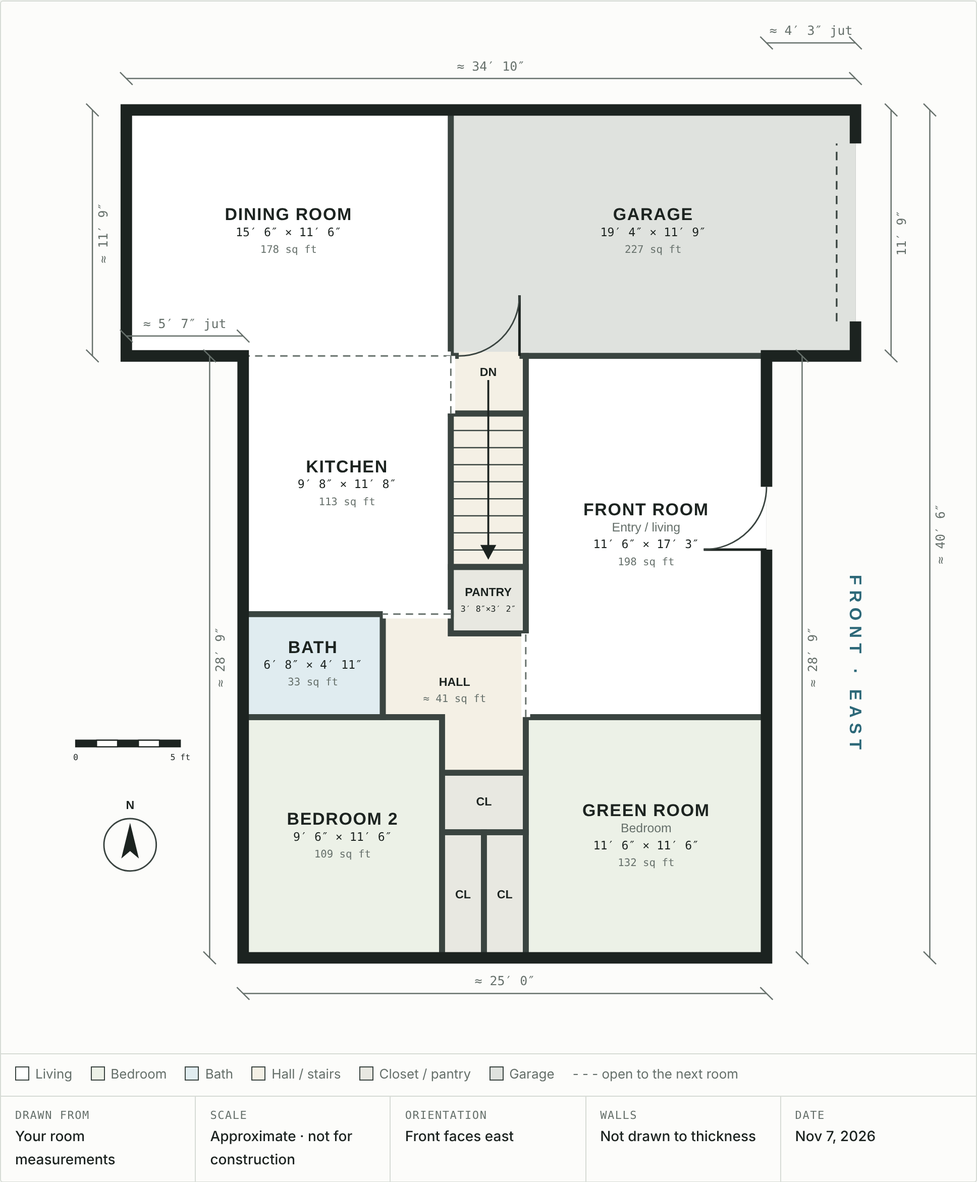
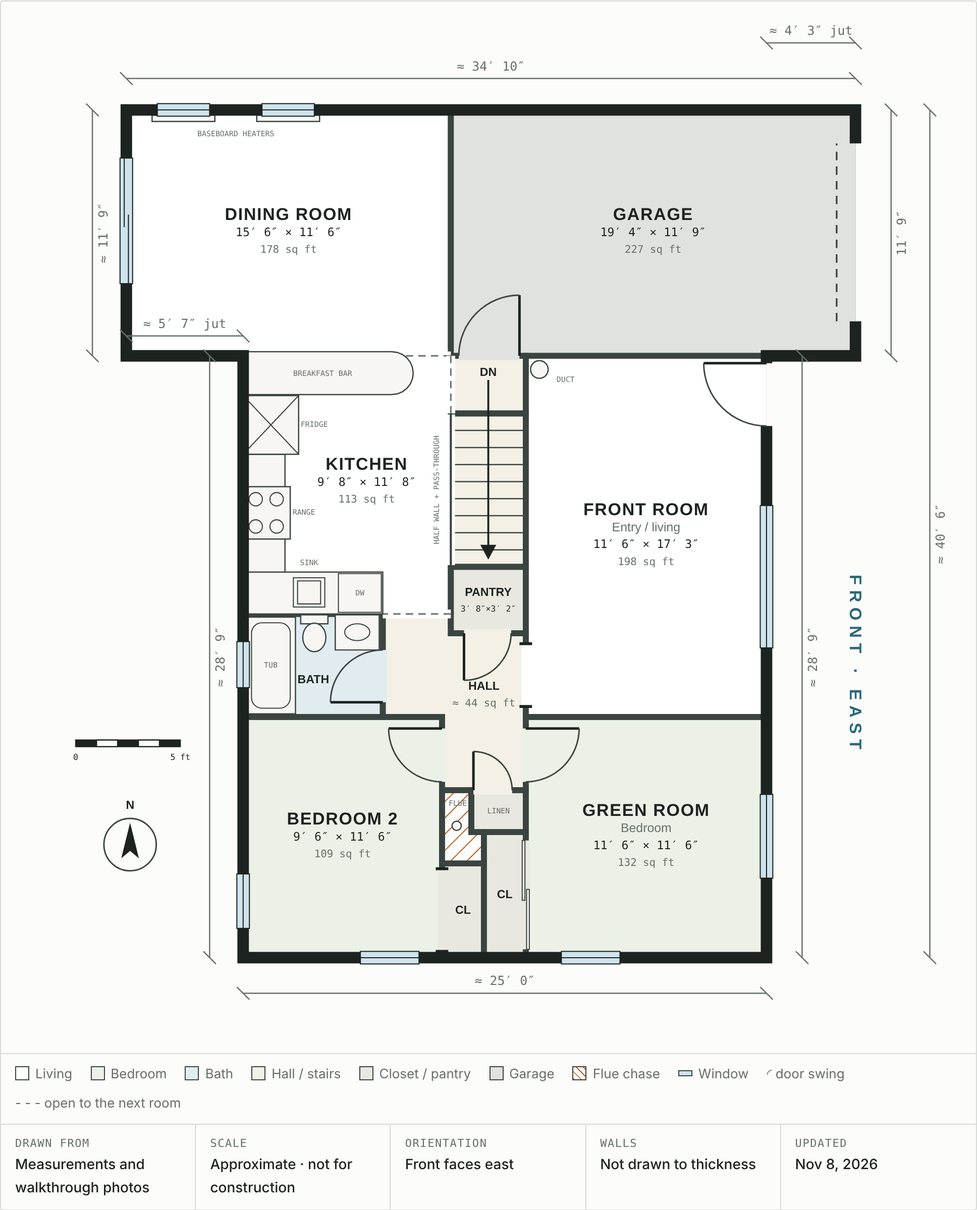
Update floor plan to match the photos and the baseline model
Draw every door with its swing, all windows, the patio slider, closet
doors and openings, the kitchen and bath fixtures, the front-room duct,
the dining-room baseboard heaters and the half wall to the stairs. Add
the linen closet and the flue chase, set bedroom 2's closet back to its
measured 2' x 4'6", and split the hall into its measured sections.
Refresh the plan picture and README, and mark the photo corrections as
done in existing-conditions.md and the renderings READMEs.

Claude-Session: https://claude.ai/code/session_014gWw3y8aufUYyZbL2xmfvZ

diff --git a/floor-plan/index.html b/floor-plan/index.html
@@ -13,6 +13,7 @@
   --bg:#F2F4F1; --sheet:#FCFCFA; --ink:#1C2320; --line:#3A4440; --muted:#66706B; --rule:#D6DBD5;
   --accent:#2C6878; --warn:#B4632A;
   --f-living:#FFFFFF; --f-bed:#ECF1E7; --f-wet:#E0ECF0; --f-circ:#F4F0E5; --f-store:#E8E8E1; --f-garage:#DFE2DE; --hl:#FBE4C2;
+  --glass:#CFE3EC; --fix:#F7F6F2;
   --display:"Barlow Condensed","Arial Narrow",sans-serif;
   --body:"IBM Plex Sans",system-ui,-apple-system,"Segoe UI",sans-serif;
   --mono:"IBM Plex Mono",ui-monospace,Menlo,Consolas,monospace;
@@ -22,6 +23,7 @@
     --bg:#0F1311; --sheet:#151A17; --ink:#E1E6E2; --line:#A8B3AD; --muted:#8C9792; --rule:#2A322E;
     --accent:#7DB7C6; --warn:#E39A62;
     --f-living:#1B211E; --f-bed:#1D2720; --f-wet:#18252A; --f-circ:#24221C; --f-store:#22231F; --f-garage:#2A2E2C; --hl:#4D3B20;
+    --glass:#26414C; --fix:#232925;
     color-scheme:dark;
   }
 }
@@ -29,6 +31,7 @@
   --bg:#0F1311; --sheet:#151A17; --ink:#E1E6E2; --line:#A8B3AD; --muted:#8C9792; --rule:#2A322E;
   --accent:#7DB7C6; --warn:#E39A62;
   --f-living:#1B211E; --f-bed:#1D2720; --f-wet:#18252A; --f-circ:#24221C; --f-store:#22231F; --f-garage:#2A2E2C; --hl:#4D3B20;
+    --glass:#26414C; --fix:#232925;
   color-scheme:dark;
 }
 *{box-sizing:border-box}
@@ -91,6 +94,12 @@ tr.sub td{color:var(--muted);border-bottom:0}
 #plan .rm.circ{fill:var(--f-circ)} #plan .rm.store{fill:var(--f-store)} #plan .rm.garage{fill:var(--f-garage)}
 #plan .rm.hl{fill:var(--hl)}
 #plan .gap-sheet{fill:var(--sheet)} #plan .gap-living{fill:var(--f-living)} #plan .gap-garage{fill:var(--f-garage)} #plan .gap-circ{fill:var(--f-circ)}
+#plan .gap-bed{fill:var(--f-bed)} #plan .gap-wet{fill:var(--f-wet)} #plan .gap-store{fill:var(--f-store)}
+#plan .rm.mech{fill:url(#hatch)}
+#plan .win{fill:var(--glass);stroke:var(--ink);stroke-width:.05} #plan .winline{stroke:var(--ink);stroke-width:.05}
+#plan .bypass{fill:var(--sheet);stroke:var(--line);stroke-width:.05} #plan .jamb{stroke:var(--ink);stroke-width:.14}
+#plan .fix{fill:var(--fix);stroke:var(--line);stroke-width:.06} #plan .fix2{fill:none;stroke:var(--line);stroke-width:.05}
+#plan .halfwall{stroke:var(--line);stroke-width:.1} #plan .t-fix{font-family:var(--mono);font-size:.36px;fill:var(--muted)}
 #plan .wall{fill:none;stroke:var(--line);stroke-width:.28;stroke-linejoin:miter}
 #plan .outer{fill:none;stroke:var(--ink);stroke-width:.55;stroke-linejoin:miter}
 #plan .left{fill:url(#hatch)}
@@ -140,14 +149,17 @@ tr.sub td{color:var(--muted);border-bottom:0}
       <span><i style="background:var(--f-circ)"></i>Hall / stairs</span>
       <span><i style="background:var(--f-store)"></i>Closet / pantry</span>
       <span><i style="background:var(--f-garage)"></i>Garage</span>
+      <span><i style="background:repeating-linear-gradient(45deg,var(--warn) 0 1px,transparent 1px 5px)"></i>Flue chase</span>
+      <span><i style="background:var(--glass);height:6px;vertical-align:2px"></i>Window</span>
+      <span>◜ door swing</span>
       <span>- - - open to the next room</span>
     </div>
     <div class="titleblock">
-      <div><span>Drawn from</span><strong>Your room measurements</strong></div>
+      <div><span>Drawn from</span><strong>Measurements and walkthrough photos</strong></div>
       <div><span>Scale</span><strong>Approximate · not for construction</strong></div>
       <div><span>Orientation</span><strong>Front faces east</strong></div>
       <div><span>Walls</span><strong>Not drawn to thickness</strong></div>
-      <div><span>Date</span><strong>Nov 7, 2026</strong></div>
+      <div><span>Updated</span><strong>Nov 8, 2026</strong></div>
     </div>
   </section>
 
@@ -160,7 +172,7 @@ tr.sub td{color:var(--muted);border-bottom:0}
           <tbody id="sched"></tbody>
         </table>
       </div>
-      <p class="note">Sizes are the measurements you gave, except the hall, the hall closet and bedroom 2's closet, which were fitted to the space. On the drawing, a few rooms are stretched or shrunk by up to about 9 inches so the walls meet.</p>
+      <p class="note">Sizes are the measurements you gave, except the linen closet, which is estimated. Doors, windows and fixtures are placed from the walkthrough photos. On the drawing, a few rooms are stretched or shrunk by up to about 9 inches so the walls meet.</p>
     </section>
 
     <section class="sheet panel" aria-labelledby="check-h">
@@ -168,10 +180,14 @@ tr.sub td{color:var(--muted);border-bottom:0}
       <ul class="checks">
         <li class="ok"><h3>Garage</h3>
           <p>The garage is back to your measurement of 19′ 4″ deep. Its back wall lines up with the west side of the stairs, so it sticks out about 4′ 3″ past the front of the house.</p></li>
-        <li class="ask"><h3>Hall closet</h3>
-          <p>The closet across from the pantry is drawn at about 4′ wide × 2′ 10″ deep, opening north into the hall. That leaves a short stretch of hall in front of it leading to the green room door. Send its real size if you have it.</p></li>
-        <li class="ask"><h3>Doors</h3>
-          <p>The plan shows only the front door, the garage door and the door from the stair landing into the garage. Bedroom, bath and kitchen doors still need placing.</p></li>
+        <li class="ok"><h3>Doors, windows and fixtures</h3>
+          <p>Every door, window and closet opening is drawn where the walkthrough photos show it, along with the kitchen cabinets, bath fixtures, front room duct and dining room baseboard heaters.</p></li>
+        <li class="ask"><h3>Window sizes</h3>
+          <p>Window widths are estimated from the photos. Measure them before ordering blinds or replacements.</p></li>
+        <li class="ask"><h3>Linen closet</h3>
+          <p>The linen closet at the south end of the hall is drawn at about 2′ 7″ × 2′. Send its real size if you measure it.</p></li>
+        <li class="ok"><h3>Flue chase</h3>
+          <p>The hatched space between the linen closet and bedroom 2 holds the flue pipe from the basement. It's the wall that's open in bedroom 2.</p></li>
         <li class="ok"><h3>What lines up</h3>
           <p>Across the bedroom side: green room 11′ 6″ + two 2′ closets + bedroom 2 at 9′ 6″ = 25′. Across the kitchen side: front room 11′ 6″ + stairs 3′ 7″ + kitchen 9′ 8″ ≈ 24′ 9″. Front to back, bedroom 2 + bath + kitchen comes to 28′ 1″ against 28′ 9″ on the front side. The 8″ difference is about two interior walls.</p></li>
       </ul>
@@ -191,27 +207,46 @@ tr.sub td{color:var(--muted);border-bottom:0}
     {id:'front',  name:'Front room', sub:'Entry / living', type:'living', g:{x:0,y:11.5,w:11.5,h:17.25}, d:[138,207], mode:'full'},
     {id:'green',  name:'Green room', sub:'Bedroom', type:'bed', g:{x:0,y:0,w:11.5,h:11.5}, d:[138,138], mode:'full'},
     {id:'gcl',    name:'Green room closet', type:'store', g:{x:11.5,y:0,w:2,h:6}, d:[24,72], mode:'cl'},
-    {id:'b2cl',   name:'Bedroom 2 closet', type:'store', g:{x:13.5,y:0,w:2,h:6}, d:[24,72], mode:'cl'},
+    {id:'b2cl',   name:'Bedroom 2 closet', type:'store', g:{x:13.5,y:0,w:2,h:4.5}, d:[24,54], mode:'cl'},
     {id:'bed2',   name:'Bedroom 2', type:'bed', g:{x:15.5,y:0,w:9.5,h:11.5}, d:[114,138], mode:'full'},
-    {id:'hall',   name:'Hall', type:'circ', poly:[[11.5,8.84],[15.5,8.84],[15.5,11.5],[18.33,11.5],[18.33,16.42],[15.08,16.42],[15.08,15.5],[11.5,15.5]], lab:[14.9,12.6], mode:'hall'},
-    {id:'hcl',    name:'Hall closet', type:'store', g:{x:11.5,y:6,w:4,h:2.84}, d:[48,34], mode:'cl'},
-    {id:'bath',   name:'Bathroom', short:'Bath', type:'wet', g:{x:18.33,y:11.5,w:6.67,h:4.92}, d:[80,59], mode:'full'},
+    {id:'hall',   name:'Hall', type:'circ', poly:[[11.5,8],[15.5,8],[15.5,11.5],[18.33,11.5],[18.33,16.42],[15.08,16.42],[15.08,15.5],[11.5,15.5]], lab:[13.5,12.4], mode:'hall'},
+    {id:'linen',  name:'Linen closet', type:'store', g:{x:11.5,y:6,w:2.6,h:2}, d:[31,24], mode:'tiny', label:'LINEN'},
+    {id:'chase',  name:'Flue chase', type:'mech', poly:[[13.5,4.5],[15.5,4.5],[15.5,8],[14.1,8],[14.1,6],[13.5,6]], lab:[14.5,5.2], mode:'none'},
+    {id:'bath',   name:'Bathroom', short:'Bath', type:'wet', g:{x:18.33,y:11.5,w:6.67,h:4.92}, d:[80,59], mode:'name', lab:[21.65,13.25]},
     {id:'pantry', name:'Pantry', type:'store', g:{x:11.5,y:15.5,w:3.58,h:3.17}, d:[44,38], mode:'small'},
     {id:'stair',  name:'Stair opening', type:'circ', g:{x:11.5,y:18.67,w:3.58,h:7.33}, d:[43,88], mode:'none'},
     {id:'landing',name:'Top landing', type:'circ', g:{x:11.5,y:26,w:3.58,h:2.75}, d:[43,32], mode:'none'},
-    {id:'kitchen',name:'Kitchen', type:'living', g:{x:15.08,y:16.42,w:9.92,h:12.33}, d:[116,140], mode:'full'},
+    {id:'kitchen',name:'Kitchen', type:'living', g:{x:15.08,y:16.42,w:9.92,h:12.33}, d:[116,140], mode:'full', lab:[19.1,22.7]},
     {id:'garage', name:'Garage', type:'garage', g:{x:-4.25,y:28.75,w:19.33,h:11.75}, d:[232,141], mode:'full'},
     {id:'dining', name:'Dining room', type:'living', g:{x:15.08,y:28.75,w:15.5,h:11.75}, d:[186,138], mode:'full'}
   ];
   const LEFTOVER = [];
   const OUTLINE = [[0,0],[25,0],[25,28.75],[30.58,28.75],[30.58,40.5],[-4.25,40.5],[-4.25,28.75],[0,28.75]];
-  const OPEN = [ [[11.5,11.5],[11.5,15.5]], [[15.08,28.75],[25,28.75]], [[15.08,26],[15.08,28.75]], [[15.08,16.42],[18.33,16.42]] ];
+  const OPEN = [ [[15.08,28.75],[25,28.75]], [[15.08,26],[15.08,28.75]], [[15.08,16.42],[18.33,16.42]] ];
+  // Doors, windows and openings. ax 'v' = wall at x = c, 'h' = wall at y = c. swing = which way (+/- along the other axis) the door opens.
+  const OPENINGS = [
+    {t:'door', ax:'v', c:0, s:25.4, e:28.4, hinge:'e', swing:1, room:'living', out:-1},   // front door
+    {t:'door', ax:'v', c:11.5, s:8.4, e:10.95, hinge:'e', swing:-1, room:'bed'},          // green room
+    {t:'door', ax:'v', c:15.5, s:8.4, e:10.95, hinge:'e', swing:1, room:'bed'},           // bedroom 2
+    {t:'door', ax:'v', c:18.33, s:12.2, e:14.7, hinge:'s', swing:1, room:'wet'},          // bathroom
+    {t:'door', ax:'h', c:8, s:12.15, e:14.0, hinge:'e', swing:1, room:'circ'},            // linen closet
+    {t:'door', ax:'h', c:15.5, s:12.2, e:14.45, hinge:'e', swing:-1, room:'circ'},        // pantry
+    {t:'door', ax:'h', c:28.75, s:11.8, e:14.7, hinge:'s', swing:1, room:'garage'},       // landing to garage
+    {t:'bypass', ax:'v', c:11.5, s:0.4, e:5.6, room:'store'},                             // green room closet
+    {t:'cased', ax:'v', c:15.5, s:0.3, e:4.25, room:'store'},                             // bedroom 2 closet (no doors)
+    {t:'cased', ax:'v', c:11.5, s:12.0, e:15.0, room:'living'},                           // front room to hall
+    {t:'slider', ax:'v', c:30.58, s:32.2, e:38.2},                                         // patio door to the deck
+    {t:'win', ax:'v', c:0, s:3.8, e:7.8}, {t:'win', ax:'v', c:0, s:14.8, e:21.6},
+    {t:'win', ax:'h', c:0, s:7.0, e:9.8}, {t:'win', ax:'h', c:0, s:16.6, e:19.4},
+    {t:'win', ax:'v', c:25, s:1.4, e:4.0}, {t:'win', ax:'v', c:25, s:12.9, e:15.1},
+    {t:'win', ax:'h', c:40.5, s:21.6, e:24.1}, {t:'win', ax:'h', c:40.5, s:26.6, e:29.1}
+  ];
 
   const SCHEDULE = [
     ['Living', [['front','Front room (entry / living)',[138,207]],['kitchen','Kitchen',[116,140]],['dining','Dining room',[186,138]]]],
-    ['Bedrooms', [['green','Green room',[138,138]],['gcl','Green room closet',[24,72]],['bed2','Bedroom 2',[114,138]],['b2cl','Bedroom 2 closet (extended to fit)',[24,72]]]],
-    ['Bath & storage', [['bath','Bathroom',[80,59]],['pantry','Pantry',[44,38]],['hcl','Hall closet (size estimated)',[48,34]]]],
-    ['Halls & stairs', [['hall','Hall (fitted to the space)',null],['stair','Stair opening',[43,88]],['landing','Top landing to garage door',[43,32]]]],
+    ['Bedrooms', [['green','Green room',[138,138]],['gcl','Green room closet',[24,72]],['bed2','Bedroom 2',[114,138]],['b2cl','Bedroom 2 closet',[24,54]]]],
+    ['Bath & storage', [['bath','Bathroom',[80,59]],['pantry','Pantry',[44,38]],['linen','Linen closet (size estimated)',[31,24]]]],
+    ['Halls & stairs', [['hall','Hall, main section',[48,90]],['hall','Hall, short section',[32,63]],['stair','Stair opening',[43,88]],['landing','Top landing to garage door',[43,32]]]],
     ['Garage', [['garage','Garage',[232,141]]]]
   ];
 
@@ -271,18 +306,62 @@ tr.sub td{color:var(--muted);border-bottom:0}
     // openings between rooms
     OPEN.forEach(([a,b]) => { s += line(a,b,'open-cover') + line(a,b,'open-dash'); });
 
-    // outer wall, then cut door openings
+    // fixtures (drawn over the floor, under the labels)
+    const P = (x, y) => `${n(X(x))},${n(Y(y))}`;
+    const rectF = (x0, x1, y0, y1, cls) => `<polygon class="${cls}" points="${pts([[x0,y0],[x1,y0],[x1,y1],[x0,y1]])}"/>`;
+    const circF = (x, y, r, cls) => `<circle class="${cls}" cx="${n(X(x))}" cy="${n(Y(y))}" r="${n(r)}"/>`;
+    const ellF = (x, y, rx, ry, cls) => `<ellipse class="${cls}" cx="${n(X(x))}" cy="${n(Y(y))}" rx="${n(rx)}" ry="${n(ry)}"/>`;
+    const tiny = (x, y, t) => text(x, y, t, 't-fix', 'pointer-events="none"');
+    // kitchen: counters on the south and back walls, sink, dishwasher, range, fridge, breakfast bar
+    s += rectF(18.33, 25, 16.42, 18.42, 'fix') + rectF(23.0, 25, 18.42, 24.05, 'fix');
+    s += rectF(21.1, 22.6, 16.75, 18.15, 'fix2') + rectF(21.3, 22.4, 16.9, 18.0, 'fix2') + tiny(21.85, 18.85, 'SINK');
+    s += rectF(18.4, 20.45, 16.5, 18.35, 'fix2') + tiny(19.42, 17.4, 'DW');
+    s += rectF(22.75, 25, 20.0, 22.5, 'fix') + [[23.4,20.6],[24.4,20.6],[23.4,21.9],[24.4,21.9]].map(([x,y]) => circF(x, y, 0.32, 'fix2')).join('') + tiny(22.1, 21.25, 'RANGE');
+    s += rectF(22.35, 25, 24.05, 26.85, 'fix') + line([22.35,24.05],[25,26.85],'fix2') + line([22.35,26.85],[25,24.05],'fix2') + tiny(21.6, 25.45, 'FRIDGE');
+    { const pen = [[25,26.9],[17.9,26.9]]; for (let i = 1; i < 12; i++){ const a = -Math.PI/2 - i*Math.PI/12; pen.push([17.9 + 1.025*Math.cos(a), 27.925 + 1.025*Math.sin(a)]); } pen.push([17.9,28.95],[25,28.95]);
+      s += `<polygon class="fix" points="${pts(pen)}"/>` + tiny(21.2, 27.9, 'BREAKFAST BAR'); }
+    // bathroom: tub, toilet, vanity
+    s += rectF(22.5, 24.85, 11.65, 16.27, 'fix') + `<rect class="fix2" x="${n(Math.min(X(22.75),X(24.6)))}" y="${n(Y(16.0))}" width="${n(1.85)}" height="${n(4.08)}" rx=".5"/>` + tiny(23.68, 13.95, 'TUB');
+    s += rectF(20.95, 22.25, 15.95, 16.38, 'fix') + ellF(21.6, 15.3, 0.55, 0.68, 'fix');
+    s += rectF(18.5, 20.6, 14.7, 16.38, 'fix') + ellF(19.55, 15.55, 0.6, 0.4, 'fix2');
+    // front room duct, flue pipe, dining room baseboard heaters
+    s += circF(10.85, 28.1, 0.42, 'fix') + tiny(9.6, 27.6, 'DUCT');
+    s += circF(14.8, 6.3, 0.22, 'fix') + tiny(14.75, 7.35, 'FLUE');
+    s += rectF(21.35, 24.35, 39.95, 40.25, 'fix') + rectF(26.35, 29.35, 39.95, 40.25, 'fix') + tiny(25.35, 39.35, 'BASEBOARD HEATERS');
+    // half wall with pass-through between the kitchen and the stairs
+    s += rectF(14.88, 15.28, 18.75, 25.95, 'gap-living') + line([15.08,18.67],[15.08,26],'halfwall');
+    { const hx = X(15.75), hy = Y(22.35); s += `<text x="${n(hx)}" y="${n(hy)}" text-anchor="middle" dominant-baseline="middle" class="t-fix" transform="rotate(-90 ${n(hx)} ${n(hy)})">HALF WALL + PASS-THROUGH</text>`; }
+
+    // outer wall
     s += `<polygon class="outer" points="${pts(OUTLINE)}"/>`;
-    const gapRect = (x1,x2,y1,y2,cls) => { const a = Math.min(X(x1),X(x2)), b = Math.max(X(x1),X(x2)); return `<rect class="${cls}" x="${n(a)}" y="${n(Y(y2))}" width="${n(b-a)}" height="${n(y2-y1)}"/>`; };
-    // front door: west wall of front room
-    s += gapRect(-0.4,0,19.5,22.5,'gap-sheet') + gapRect(0,0.35,19.5,22.5,'gap-living');
-    s += line([0,19.5],[3,19.5],'leaf') + arc([0,19.5],[3,19.5],[0,22.5],false);
+    const RR = (x1, x2, y1, y2, cls) => { const a = Math.min(X(x1),X(x2)), b = Math.max(X(x1),X(x2)); return `<rect class="${cls}" x="${n(a)}" y="${n(Y(Math.max(y1,y2)))}" width="${n(b-a)}" height="${n(Math.abs(y2-y1))}"/>`; };
+    // along-wall coordinate helper: point at (u along the wall, v across it)
+    const at = (o, u, v) => o.ax === 'v' ? [o.c + v, u] : [u, o.c + v];
+    const band = (o, u0, u1, v0, v1, cls) => { const a = at(o, u0, v0), b = at(o, u1, v1); return RR(a[0], b[0], a[1], b[1], cls); };
+    OPENINGS.forEach(o => {
+      const w = o.e - o.s;
+      if (o.t === 'win' || o.t === 'slider'){
+        s += band(o, o.s, o.e, -0.3, 0.3, 'win');
+        if (o.t === 'win') s += line(at(o, o.s, 0), at(o, o.e, 0), 'winline');
+        else s += line(at(o, o.s, -0.1), at(o, o.s + w*0.55, -0.1), 'winline') + line(at(o, o.e - w*0.55, 0.1), at(o, o.e, 0.1), 'winline');
+        return;
+      }
+      if (o.out) s += band(o, o.s, o.e, o.out*0.32, 0, 'gap-sheet') + band(o, o.s, o.e, 0, -o.out*0.32, 'gap-' + o.room);
+      else s += band(o, o.s, o.e, -0.2, 0.2, 'gap-' + o.room);
+      if (o.t === 'door'){
+        const hu = o.hinge === 's' ? o.s : o.e, ou = o.hinge === 's' ? o.e : o.s, H = at(o, hu, 0), L = at(o, hu, o.swing*w);
+        s += line(H, L, 'leaf');
+        const arcPts = []; for (let i = 0; i <= 16; i++){ const t = i/16*Math.PI/2; arcPts.push(at(o, hu + (ou - hu)*Math.sin(t), o.swing*w*Math.cos(t))); }
+        s += `<polyline class="swing" points="${pts(arcPts)}"/>`;
+      } else if (o.t === 'bypass'){
+        s += band(o, o.s, o.s + w*0.55, -0.17, -0.04, 'bypass') + band(o, o.e - w*0.55, o.e, 0.04, 0.17, 'bypass');
+      } else if (o.t === 'cased'){
+        s += line(at(o, o.s, -0.3), at(o, o.s, 0.3), 'jamb') + line(at(o, o.e, -0.3), at(o, o.e, 0.3), 'jamb');
+      }
+    });
     // overhead garage door: front (east) face of the garage
-    s += gapRect(-4.65,-4.25,30.4,38.9,'gap-sheet') + gapRect(-4.25,-3.9,30.4,38.9,'gap-garage');
+    s += RR(-4.65,-4.25,30.4,38.9,'gap-sheet') + RR(-4.25,-3.9,30.4,38.9,'gap-garage');
     s += line([-3.35,30.4],[-3.35,38.9],'ohd');
-    // garage to house door at top of the stair landing
-    s += gapRect(11.8,14.7,28.55,28.95,'gap-circ');
-    s += line([11.8,28.75],[11.8,31.65],'leaf') + arc([11.8,28.75],[11.8,31.65],[14.7,28.75],true);
 
     // labels
     ROOMS.forEach(r => {
@@ -299,6 +378,10 @@ tr.sub td{color:var(--muted);border-bottom:0}
         s += text(lx, ly-0.45, `${fmt(r.d[0])}×${fmt(r.d[1])}`, 't-tiny', 'pointer-events="none"');
       } else if (r.mode === 'cl'){
         s += text(lx, ly, 'CL', 't-small', 'pointer-events="none"');
+      } else if (r.mode === 'name'){
+        s += text(lx, ly, (r.short || r.name).toUpperCase(), 't-small', 'pointer-events="none"');
+      } else if (r.mode === 'tiny'){
+        s += text(lx, ly, r.label, 't-fix', 'pointer-events="none"');
       } else if (r.mode === 'hall'){
         s += text(lx, ly+0.55, 'HALL', 't-small', 'pointer-events="none"');
         s += text(lx, ly-0.25, `≈ ${Math.round(polyArea(r.poly))} sq ft`, 't-area', 'pointer-events="none"');

diff --git a/floor-plan/README.md b/floor-plan/README.md
@@ -1,6 +1,6 @@
 # House Floor Plan
 
-The basic main-floor plan of the house as it is today, before renovation. It's drawn from room measurements taken by hand.
+The main-floor plan of the house as it is today, before renovation. It's drawn from hand measurements and updated (Nov 8, 2026) from the [walkthrough photos](../photos/). It matches the [baseline 3D model](../renderings/2026-11-08-baseline/).
 
 ![Main floor plan](floor-plan.png)
 
@@ -9,10 +9,33 @@ The basic main-floor plan of the house as it is today, before renovation. It's d
 ## Overview
 
 - **Orientation:** the front of the house faces east. The bedrooms are on the south side, and the garage and dining room are on the north side.
-- **Main floor:** about 887 sq ft of rooms, not counting the garage. There are 2 bedrooms and 1 bath on this floor.
+- **Main floor:** about 881 sq ft of rooms, not counting the garage. There are 2 bedrooms and 1 bath on this floor.
 - **Garage:** 227 sq ft. It sticks out about 4′ 3″ past the front wall, and its back wall lines up with the west side of the stairs.
 - **Dining room:** it bumps out about 5′ 7″ past the back (west) wall of the kitchen.
 - **Overall size:** about 34′ 10″ east–west (along the north wall) × 40′ 6″ north–south.
+
+## What's drawn
+
+- **Doors**, with their swing:
+  - The front door, at the north end of the front wall beside the garage.
+  - The two bedroom doors, facing each other at the south end of the hall.
+  - The bathroom, linen closet and pantry doors.
+  - The door from the stair landing to the garage.
+  - The garage door.
+- **Closets:** bypass sliding doors on the green room closet, and an open, doorless closet in bedroom 2.
+- **Openings:** a cased opening between the front room and the hall. The kitchen is open to the hall, the dining room and the landing.
+- **Windows:**
+  - Front: the picture window and the green room slider.
+  - South: one window in each bedroom.
+  - Back: bedroom 2 and the bathroom.
+  - North: two in the dining room.
+  - The patio slider from the dining room to the deck.
+- **Half wall:** the half wall with a pass-through between the kitchen and the stairs. The front room side of the stairwell is a solid wall.
+- **Fixtures:**
+  - Kitchen: the counters, sink, dishwasher, range, fridge and breakfast bar.
+  - Bathroom: the tub, toilet and vanity.
+  - The live duct in the front room corner, and the two baseboard heaters in the dining room.
+- **The flue chase** (hatched): between the linen closet and bedroom 2, with the flue pipe from the basement.
 
 ## Room schedule
 
@@ -26,27 +49,21 @@ Sizes are east–west × north–south.
 | Green room (bedroom) | 11′ 6″ × 11′ 6″ | 132 |
 | Green room closet | 2′ × 6′ | 12 |
 | Bedroom 2 | 9′ 6″ × 11′ 6″ | 109 |
-| Bedroom 2 closet* | 2′ × 6′ | 12 |
+| Bedroom 2 closet | 2′ × 4′ 6″ | 9 |
 | Bathroom | 6′ 8″ × 4′ 11″ | 33 |
 | Pantry | 3′ 8″ × 3′ 2″ | 12 |
-| Hall closet* | 4′ × 2′ 10″ | 11 |
-| Hall* | L-shaped | 41 |
+| Linen closet* | 2′ 7″ × 2′ | 5 |
+| Hall, main section | 4′ × 7′ 6″ | 30 |
+| Hall, short section | 2′ 8″ × 5′ 3″ | 14 |
 | Stair opening (down to basement) | 3′ 7″ × 7′ 4″ | 26 |
 | Top landing (door to garage) | 3′ 7″ × 2′ 8″ | 10 |
-| **Main floor total** | | **≈ 887** |
+| **Main floor total** | | **≈ 881** |
 | Garage | 19′ 4″ × 11′ 9″ | 227 |
 
-\* These weren't measured directly. They're sized to fill the space between the measured rooms.
-
-## Openings between rooms
-
-- The front room is open to the hall.
-- The hall is open to the kitchen.
-- The kitchen is open to both the dining room and the top stair landing.
-- The landing has a door into the garage.
+\* Estimated from the photos, not measured.
 
 ## Notes
 
 - Walls aren't drawn to their real thickness. A few rooms are stretched or shrunk by up to about 9″ in the drawing so the walls meet, but the schedule uses the measured sizes.
-- Only the front door, the garage door and the landing-to-garage door are drawn. Bedroom, bath and closet doors still need to be placed.
+- Window widths are estimated from the photos. Measure them before ordering blinds or replacement windows.
 - The basement isn't drawn yet. It's unfinished and is plumbed for a second bathroom.

diff --git a/existing-conditions.md b/existing-conditions.md
@@ -37,7 +37,7 @@ This is a room-by-room record of the house **as it is now, before renovation**. 
 | Green room | 11′ 6″ × 11′ 6″ | 132 | |
 | Green room closet | 2′ × 6′ | 12 | |
 | Bedroom 2 | 9′ 6″ × 11′ 6″ | 109 | |
-| Bedroom 2 closet | 2′ × 4′ 6″ | 9 | Measured. The plan currently shows 2′ × 6′. |
+| Bedroom 2 closet | 2′ × 4′ 6″ | 9 | Measured. |
 | Bathroom | 6′ 8″ × 4′ 11″ | 33 | Measured as 80″ × 59″. |
 | Main hall | 4′ × 7′ 6″ | 30 | Runs north–south from the linen closet to the pantry. |
 | Short hall | 2′ 8″ × 5′ 3″ | 14 | Between the main hall and the bath, leading into the kitchen. |
@@ -176,7 +176,7 @@ This is a room-by-room record of the house **as it is now, before renovation**. 
 | **Floor** | **Oak strip hardwood**, worn near the windows. It needs a full sand and refinish. |
 | **Walls** | Cream, with many nail and anchor holes and scuffs. |
 | **Ceiling** | White, with a **ceiling supply register**. **No ceiling light** is visible, only a round ceiling device, probably a smoke detector. |
-| **Door** | White flat slab door at the **north end of the east wall**, from the hall. It faces the green room door. *(The current floor plan wrongly shows it on the north wall.)* |
+| **Door** | White flat slab door at the **north end of the east wall**, from the hall. It faces the green room door. |
 | **Closet** | At the south end of the east wall. It's an open reach-in with a rod and shelf and **no doors**, about 4′ 6″ wide, back-to-back with the green room closet. |
 | **Windows** | **South:** a white double-hung window toward the east end of the wall. **West:** a white double-hung window near the southwest corner. |
 | **Heating** | A floor register in the southwest corner, and a ceiling supply register. Cover plates or junction boxes low on the south and west walls, probably from **removed baseboard heaters**. |
@@ -398,7 +398,10 @@ This is a room-by-room record of the house **as it is now, before renovation**. 
 
 ---
 
-## 8. Corrections pending on the floor plan and 3D model
+## 8. Corrections from the photos (done)
+
+These corrections were applied to the [floor plan](floor-plan/) and the [baseline 3D model](renderings/2026-11-08-baseline/) on November 8, 2026. The exterior items are in the 3D model only as a simple shell.
+
 
 - **Bedroom 2's door** moves to its **east wall** (north end), facing the green room door.
 - **Bedroom 2's closet** goes back to the measured **2′ × 4′ 6″**. Add the **flue chase** between it and the linen closet.

diff --git a/renderings/2026-11-08-baseline/README.md b/renderings/2026-11-08-baseline/README.md
@@ -60,4 +60,4 @@ It's built from the measured [floor plan](../../floor-plan/), the [walkthrough p
 - **Estimated, not measured:** window sizes and the linen closet. The deck size is a guess.
 - **Exterior:** a simple shell with beige siding, the stone garage front and the brick planter. The roof is left off.
 - **Walls** aren't drawn to their real thickness.
-- **The 2D floor plan in [`floor-plan/`](../../floor-plan/) hasn't caught up yet.** It doesn't have the corrections from the photos (listed in `existing-conditions.md`, section 8). This 3D model does.
+- The [2D floor plan](../../floor-plan/) was updated the same day to match this model.

diff --git a/renderings/README.md b/renderings/README.md
@@ -4,7 +4,7 @@ These are 3D models of the house, saved as dated snapshots so changes can be com
 
 | Version | Date | What it shows |
 |---|---|---|
-| [**Baseline**](2026-11-08-baseline/) | Nov 8, 2026 | The house as it is today, before any renovation. This is the reference point for every later version. |
+| [**Baseline**](2026-11-08-baseline/) | Nov 8, 2026 | The house as it is today, before any renovation. This is the reference point for every later version. It matches the updated [floor plan](../floor-plan/). |
 
 ## Adding a new version
 
